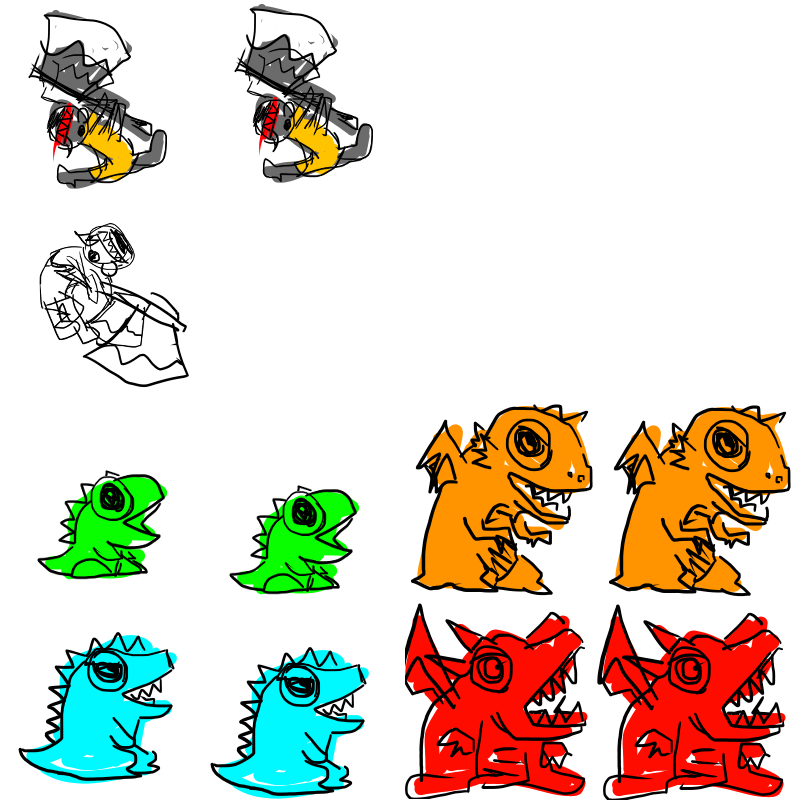
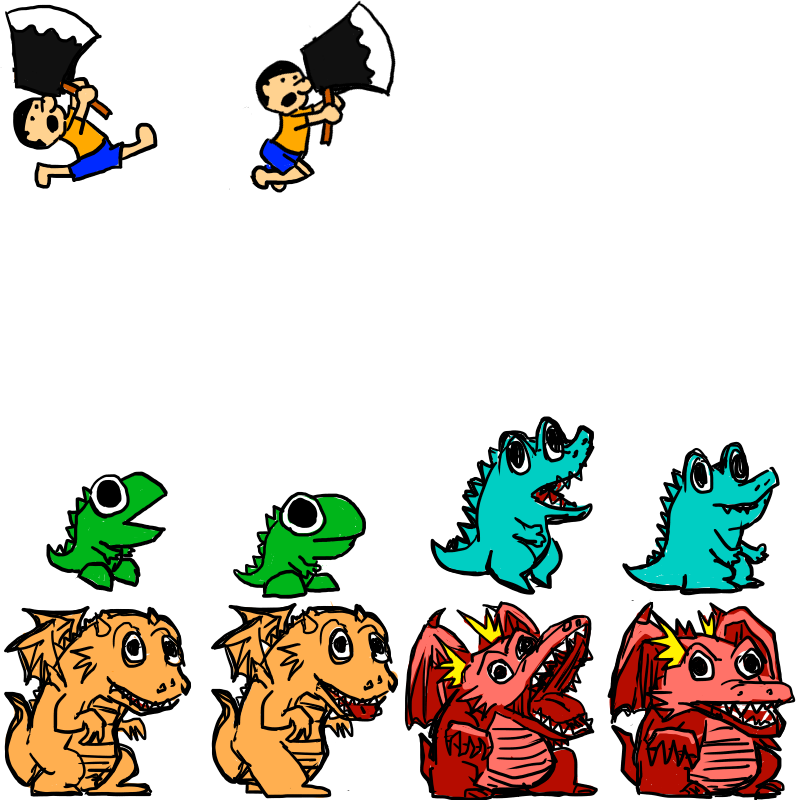
画像設定、動作完成

diff --git a/src/MainGame.ts b/src/MainGame.ts
@@ -1,3 +1,4 @@
+import tl = require("@akashic-extension/akashic-timeline");
 import { Actor } from "./Actor";
 import { Door } from "./Door";
 import { MainScene } from "./MainScene";
@@ -7,6 +8,7 @@ export class MainGame extends g.E {
 	constructor() {
 		const scene = g.game.scene() as MainScene;
 		super({ scene: scene, width: g.game.width, height: g.game.height, touchable: true });
+		const timeline = new tl.Timeline(scene);
 
 		// ベース
 		const base = new g.E({
@@ -44,12 +46,13 @@ export class MainGame extends g.E {
 		let count = 0;
 		for (let y = 0; y < 3; y++) {
 			for (let x = 0; x < 3; x++) {
-				const door = new Door(scene, 300 * x + 130 - ((3 - y) * -30), 200 * y + 60, count, colors[count % 5]);
-				base.append(door);
+				const door = new Door(scene, 300 * x + 130, -200, count, colors[count % 5]);
+				floors[y].append(door);
 				doors[count] = door;
 				// タップイベント
 				const i = count;
 				door.onPointDown.add(() => {
+					if (!scene.isStart) return;
 					door.isOpen = !door.isOpen;
 					const doorExit = i !== 4 ? doors[(i + 5) % (Math.round(doors.length / 2) * 2)] : null; //出口
 					if (door.isOpen) {
@@ -72,11 +75,10 @@ export class MainGame extends g.E {
 			{
 				scene: scene,
 				x: (floors[1].width - 10) / 2,
-				y: floors[1].y - 120,
+				y: -120,
 				width: 10,
 				height: 120,
-				cssColor: "white",
-				parent: base,
+				parent: floors[1],
 			},
 			true
 		);
@@ -91,11 +93,10 @@ export class MainGame extends g.E {
 				{
 					scene: scene,
 					x: floors[0].width * num,
-					y: floors[j].y - 120,
+					y: -120,
 					width: 10,
 					height: 120,
-					cssColor: "red",
-					parent: base,
+					parent: floors[j],
 				},
 				false
 			);
@@ -108,10 +109,49 @@ export class MainGame extends g.E {
 			if (!b.isPlayer) {
 				a.levelUp();
 				b.remove();
+
+				a.isStop = true;
+				timeline
+					.create(a)
+					.scaleTo(1.3, 1.3, 300)
+					.scaleTo(1.0, 1.0, 300)
+					.call(() => {
+						a.isStop = false;
+					});
 			}
 
+			//プレイヤーが倒した時
 			if (a.isPlayer) {
-				scene.addScore(b.level ** 2 * 50);
+				//エフェクト作成
+				const effect = new g.FrameSprite({
+					scene: scene,
+					src: scene.asset.getImageById("effect"),
+					x: b.x,
+					y: b.y,
+					scaleX: 2.0,
+					scaleY: 2.0,
+					width: 120,
+					height: 120,
+					anchorX: 0.5,
+					anchorY: 0.5,
+					frames: [0, 1, 2],
+					interval: 200,
+					parent: a.parent,
+				});
+				effect.start();
+				a.isStop = true;
+
+				//回転斬り
+				timeline.create(a.spr).rotateTo(360 * a.muki, 300);
+
+				setTimeout(() => {
+					effect.destroy();
+					a.isStop = false;
+					a.spr.angle = 0;
+					a.spr.modified();
+				}, 1000);
+
+				scene.addScore(b.level ** 2 * 120);
 			}
 			return;
 		};
@@ -119,9 +159,16 @@ export class MainGame extends g.E {
 		// キャラクター
 		actors.forEach((actorA) => {
 			actorA.onUpdate.add(() => {
+				if (!scene.isStart) return;
 				// 当たり判定
 				actors.forEach((actorB) => {
-					if (actorB !== actorA && actorA.parent && actorB.parent && g.Collision.intersectAreas(actorB, actorA)) {
+					if (
+						actorB !== actorA &&
+						actorA.parent &&
+						actorB.parent &&
+						actorA.parent === actorB.parent &&
+						actorA.collision(actorB)
+					) {
 						// レベルが高い方を残す
 						if (actorA.level < actorB.level) {
 							killActor(actorB, actorA);
@@ -137,16 +184,17 @@ export class MainGame extends g.E {
 		this.onUpdate.add(() => {
 			// ドアとの接触
 			actors.forEach((actor) => {
+				// 生きている
 				if (actor.parent) {
-					// 生きている
+					if (actor.isStop) return;
 
 					//ドアに入る
 					doors.forEach((door, i) => {
-						if (g.Collision.intersectAreas(door, actor) && door.isOpen) {
+						if (door.parent === actor.parent && g.Collision.intersectAreas(door, actor) && door.isOpen) {
 							const num = (i + 5) % (doors.length + (doors.length % 2));
 							const doorNext = i !== 4 ? doors[num] : doors[g.game.random.get(0, 8)];
 							actor.x = doorNext.x + (doorNext.width - actor.width) / 2;
-							actor.y = doorNext.y + (doorNext.height - actor.height);
+							doorNext.parent.append(actor);
 							actor.modified();
 
 							door.close();
@@ -157,22 +205,20 @@ export class MainGame extends g.E {
 					});
 
 					// 方向転換
-					const left = actor.speed > 0 && actor.x > base.width - actor.width;
-					const right = actor.speed < 0 && actor.x < 0;
+					const left = actor.muki > 0 && actor.x > base.width - actor.width;
+					const right = actor.muki < 0 && actor.x < 0;
 					if (left || right) actor.turn();
-					actor.x += actor.speed;
+
+					//移動
+					actor.x += actor.speed * actor.muki;
 					actor.modified();
 				} else {
 					// 死んでいる 場合復活
-					base.append(actor);
 					const x = g.game.random.generate() < 0.5 ? 0 : floors[0].width;
 					const floorNum = Math.floor(g.game.random.generate() * floors.length);
-					const y = floors[floorNum].y - actor.height;
+					floors[floorNum].append(actor);
 					actor.x = x;
-					actor.y = y;
-					actor.level = 0;
-					actor.levelUp();
-					actor.modified();
+					actor.init();
 				}
 			});
 

diff --git a/src/Actor.ts b/src/Actor.ts
@@ -1,65 +1,106 @@
+import { MainScene } from "./MainScene";
+
 //アクター
-export class Actor extends g.FilledRect {
+export class Actor extends g.E {
 	public turn: () => void;
 	public levelUp: () => void;
+	public init: () => void;
 	public speed = 0;
+	public muki = 1;
 	public level = 1;
 	public isPlayer = true;
+	public isStop = false;
+	public spr: g.FrameSprite;
+	public collisionArea: g.E;
+	public collision: (actor: Actor) => boolean;
 
-	constructor(pram: g.FilledRectParameterObject, isPlayer: boolean) {
+	constructor(pram: g.EParameterObject, isPlayer: boolean) {
 		super(pram);
 
 		this.isPlayer = isPlayer;
+		const scene = g.game.scene() as MainScene;
 
-		new g.FilledRect({
+		//当たり判定用
+		this.collisionArea = new g.E({
 			scene: this.scene,
 			x: (10 - 80) / 2,
 			y: 0,
 			width: 80,
 			height: 120,
-			cssColor: isPlayer ? "white" : "red",
+			//cssColor: isPlayer ? "white" : "red",
 			parent: this,
 		});
 
 		const spr = new g.FrameSprite({
-			scene: this.scene,
-			src: this.scene.asset.getImageById("actor"),
+			scene: scene,
+			src: scene.asset.getImageById("actor"),
 			x: 10 / 2,
-			y: -80,
+			y: -80 + 100,
 			width: 200,
 			height: 200,
-			frames: [14, 15],
+			frames: isPlayer ? [0, 1] : [8, 9],
 			parent: this,
 			interval: 300,
 			anchorX: 0.5,
-			anchorY: 0,
+			anchorY: 0.5,
 		});
+		this.spr = spr;
 		spr.start();
 
-		const font = new g.DynamicFont({
-			game: g.game,
-			fontFamily: "monospace",
-			size: 24,
+		new g.Sprite({
+			scene: scene,
+			src: scene.asset.getImageById("level"),
+			x: -60,
+			y: -80,
+			parent: this,
 		});
 
 		const label = new g.Label({
-			scene: this.scene,
-			font: font,
-			fontSize: 30,
+			scene: scene,
+			y: -80,
+			font: scene.font,
+			fontSize: 28,
 			text: "" + this.level,
 			parent: this,
 		});
 
+		//レベルアップ
 		this.levelUp = () => {
 			this.level += 1;
+			this.speed += 0.2;
 			label.text = "" + this.level;
 			label.invalidate();
+			if (this.level % 5 === 0 && this.level <= 15 && !isPlayer) {
+				const num = (this.level / 5) * 2 + 8;
+				spr.frames = [num, num + 1];
+			}
 		};
 
+		//反転
 		this.turn = () => {
-			this.speed = -this.speed;
+			this.muki = -this.muki;
 			spr.scaleX = -spr.scaleX;
 			spr.modified();
+		};
+
+		//初期化
+		this.init = () => {
+			spr.frames = [8, 9];
+			this.level = 0;
+			this.speed = 3;
+			this.levelUp();
+			this.modified();
+		};
+
+		//当たり判定
+		this.collision = (actor: Actor): boolean => {
+			const c1 = actor.collisionArea;
+			const p1 = actor.collisionArea.localToGlobal({ x: 0, y: 0 });
+
+			const c2 = this.collisionArea;
+			const p2 = this.collisionArea.localToGlobal({ x: 0, y: 0 });
+
+			return g.Collision.intersect(p1.x, p1.y, c1.width, c1.height, p2.x, p2.y, c1.width, c2.height);
 		};
 	}
 }

diff --git a/src/MainScene.ts b/src/MainScene.ts
@@ -9,6 +9,7 @@ export class MainScene extends g.Scene {
 	public addScore: (score: number) => void;
 	public playSound: (name: string) => void;
 	public isStart = false;
+	public font: g.Font;
 
 	constructor(param: GameMainParameterObject) {
 		super({
@@ -29,6 +30,8 @@ export class MainScene extends g.Scene {
 				"door_base",
 				"door",
 				"actor",
+				"level",
+				"effect",
 
 				"bgm",
 				"se_start",
@@ -152,6 +155,7 @@ export class MainScene extends g.Scene {
 					src: this.asset.getImageById("number"),
 					glyphInfo: glyphInfo,
 				});
+				this.font = font;
 
 				// ビットマップフォントを生成
 				var fontRed = new g.BitmapFont({
